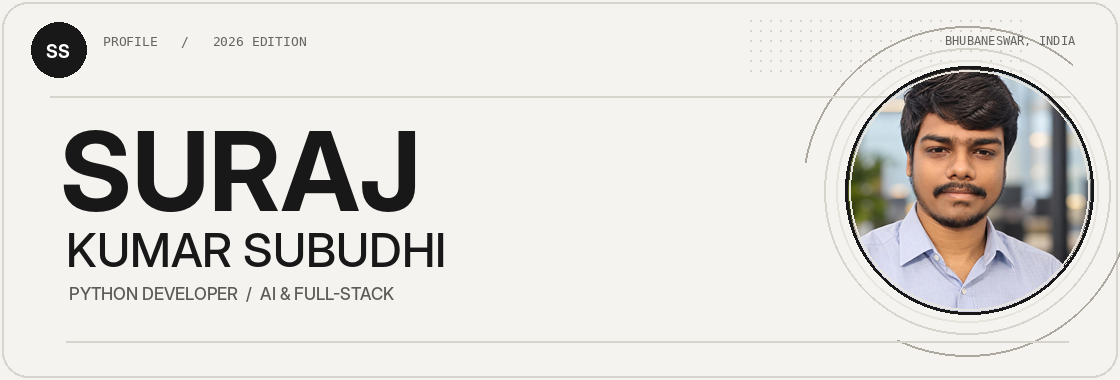
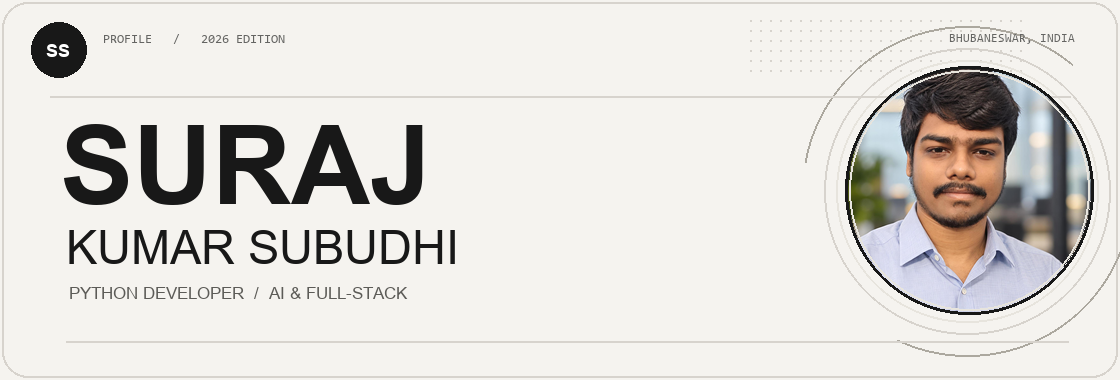
Add files via upload

diff --git a/scripts/generate_assets.py b/scripts/generate_assets.py
@@ -4,7 +4,8 @@ Run: python -m pip install Pillow && python scripts/generate_assets.py
 """
 from pathlib import Path
 from PIL import Image, ImageDraw, ImageFont, ImageOps, ImageFilter
-import math, html, re
+import math, html, re, os
+from functools import lru_cache
 
 ROOT = Path(__file__).resolve().parents[1]
 ASSETS = ROOT/'assets'
@@ -12,15 +13,54 @@ ASSETS.mkdir(parents=True,exist_ok=True)
 PHOTO = ASSETS/'portrait.jpg'
 W,H = 1120,380
 BG=(245,243,239); PAPER=(252,251,248); INK=(24,24,24); MUTED=(100,100,98); LINE=(215,211,205); SOFT=(231,228,221)
-FONTDIR='/usr/share/fonts/opentype/inter'
-MONO='/usr/share/fonts/truetype/dejavu/DejaVuSansMono.ttf'
+# Cross-platform fonts: use installed system fonts. Never require Linux paths
+# or distribute proprietary fonts with the README source archive.
+@lru_cache(maxsize=40)
+def _load_font(style: str, size: int):
+    windows_fonts = Path(os.environ.get('WINDIR', r'C:\Windows')) / 'Fonts'
+    inter_fonts = Path('/usr/share/fonts/opentype/inter')
+    linux_fonts = Path('/usr/share/fonts/truetype/dejavu')
+    mac_fonts = Path('/System/Library/Fonts/Supplemental')
+    if style == 'mono':
+        candidates = [
+            os.environ.get('PROFILE_README_MONO_FONT'),
+            windows_fonts / 'consola.ttf',
+            windows_fonts / 'cour.ttf',
+            linux_fonts / 'DejaVuSansMono.ttf',
+            mac_fonts / 'Menlo.ttc',
+            mac_fonts / 'Courier New.ttf',
+            'DejaVuSansMono.ttf',
+        ]
+    else:
+        bold = style == 'Bold'
+        candidates = [
+            os.environ.get('PROFILE_README_FONT'),
+            inter_fonts / f'InterDisplay-{style}.otf',
+            windows_fonts / ('arialbd.ttf' if bold else 'arial.ttf'),
+            windows_fonts / ('segoeuib.ttf' if bold else 'segoeui.ttf'),
+            windows_fonts / ('calibrib.ttf' if bold else 'calibri.ttf'),
+            mac_fonts / ('Arial Bold.ttf' if bold else 'Arial.ttf'),
+            linux_fonts / ('DejaVuSans-Bold.ttf' if bold else 'DejaVuSans.ttf'),
+            'DejaVuSans-Bold.ttf' if bold else 'DejaVuSans.ttf',
+        ]
+    for item in candidates:
+        if not item:
+            continue
+        try:
+            return ImageFont.truetype(str(item), size)
+        except (OSError, ValueError):
+            continue
+    # Pillow's bundled fallback works without additional font installations.
+    try:
+        return ImageFont.load_default(size=size)
+    except TypeError:  # Older Pillow versions
+        return ImageFont.load_default()
 
-def font(name,size):
-    f=Path(FONTDIR)/('InterDisplay-'+name+'.otf')
-    if not f.exists():f=Path('/usr/share/fonts/truetype/dejavu/DejaVuSans.ttf')
-    return ImageFont.truetype(str(f),size)
+def font(name, size):
+    return _load_font(name, size)
 
-def monofont(size):return ImageFont.truetype(MONO,size)
+def monofont(size):
+    return _load_font('mono', size)
 
 if PHOTO.exists():
     src = Image.open(PHOTO).convert('RGB')
@@ -152,8 +192,8 @@ for row,(label,vals) in enumerate(families):
 svg('stack.svg',1100,428,'\n'.join(l))
 
 # Centered monochrome link badges used as UI-like controls, not real CSS buttons
-for short,label in [('mail','EMAIL ME'),('linkedin','LINKEDIN'),('source','PORTFOLIO CODE')]:
-    widths={'mail':224,'linkedin':224,'source':268}
+for short,label in [('mail','EMAIL ME'),('linkedin','LINKEDIN'),('portfolio','VISIT PORTFOLIO')]:
+    widths={'mail':224,'linkedin':224,'portfolio':268}
     ww=widths[short]
     content='\n'.join([
       f'<rect x="1.5" y="1.5" width="{ww-3}" height="54" rx="27" fill="{INK and "#171717" if short=="mail" else "#f4f2ee"}" stroke="#171717" stroke-width="2"/>',

diff --git a/README.md b/README.md
@@ -16,7 +16,7 @@
 <div align="center">
   <a href="mailto:surajkumarsubudhi20@gmail.com"><img src="./assets/btn-mail.svg" height="43" alt="Email Suraj" /></a>&nbsp;
   <a href="https://www.linkedin.com/in/suraj-kumar-subudhi-23115a258/"><img src="./assets/btn-linkedin.svg" height="43" alt="Connect on LinkedIn" /></a>&nbsp;
-  <a href="https://github.com/Suraj-0007/MyPortfolio/tree/master"><img src="./assets/btn-source.svg" height="43" alt="View portfolio source code" /></a>
+  <a href="https://suraj.devstacks.in"><img src="./assets/btn-portfolio.svg" height="43" alt="Visit Suraj personal portfolio website" /></a>
 </div>
 
 <div align="center">
@@ -67,7 +67,7 @@ class Suraj:
 - [**AI Interview Web App**](https://ai-interview-app-gamma.vercel.app/) — adaptive, role-specific questions and AI-generated feedback with **Next.js, Gemini AI, Clerk, and Drizzle ORM**.
 - [**ResolverAI**](https://resolver-ai.vercel.app/) — responsive AI conversation interface using **React, Vite, Tailwind CSS, and Gemini AI**.
 - [**Any Video Downloader**](https://social-media-video-downloader-two.vercel.app/) — supported-link processing and backend logging with **React, Node.js, Express, and MongoDB**.
-- [**Personal Portfolio**](https://github.com/Suraj-0007/MyPortfolio/tree/master) — interactive, responsive portfolio using **Next.js, React, TypeScript, and CSS**. [Explore the source](https://github.com/Suraj-0007/MyPortfolio/tree/master).
+- [**Personal Portfolio**](https://suraj.devstacks.in) — interactive, responsive portfolio using **Next.js, React, TypeScript, and CSS**.
 
 <br />
 
@@ -131,7 +131,7 @@ C. V. Raman Global University · CGPA <strong>8.54/10</strong>.
   &nbsp; · &nbsp;
   <a href="https://www.linkedin.com/in/suraj-kumar-subudhi-23115a258/"><strong>LinkedIn</strong></a>
   &nbsp; · &nbsp;
-  <a href="https://github.com/Suraj-0007/MyPortfolio/blob/master/public/resume.pdf"><strong>Résumé</strong></a>
+  <a href="https://suraj.devstacks.in/resume.pdf"><strong>Résumé</strong></a>
 </p>
 
 <div align="center">
